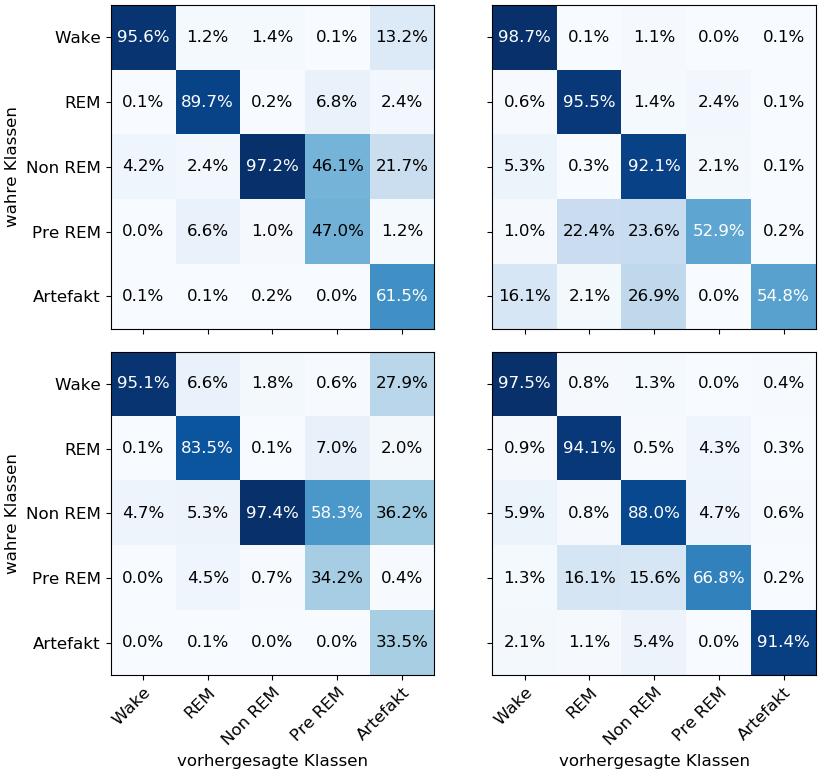
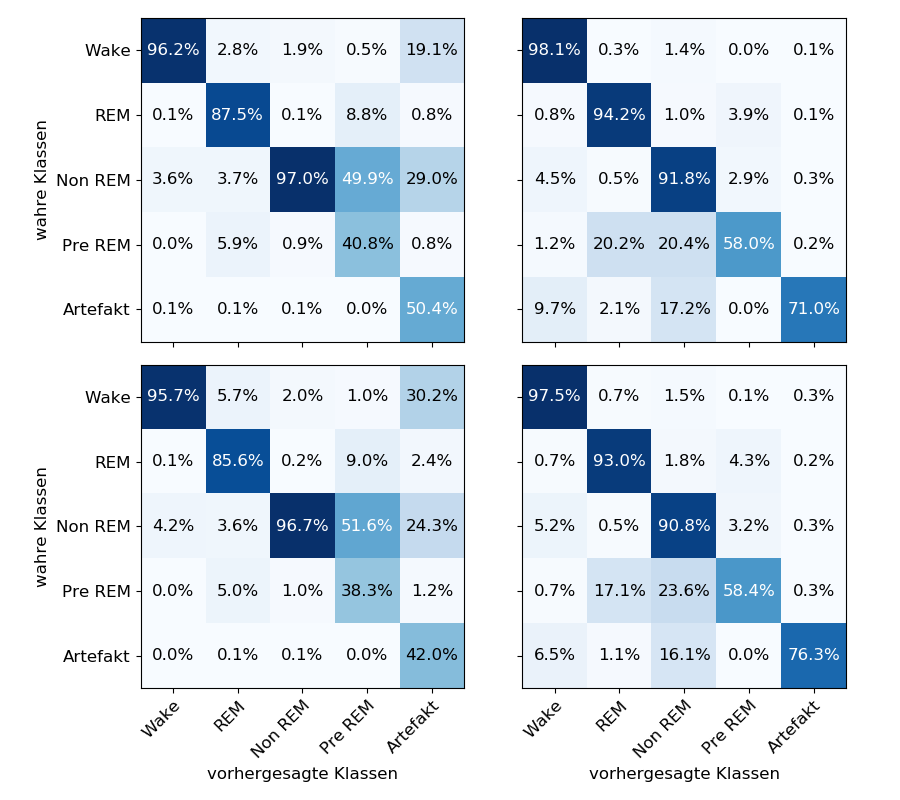
add scripts for plotting of f1 score courses and for plotting of a simple window warping example add plots made with these scripts

Changed region(s): [[0.0, 0.0, 0.5501, 0.9922], [0.5807, 0.0, 1.0, 0.9922], [0.0, 0.124, 0.2751, 0.3101]]

diff --git a/scripts/plots/master/plot_f1_score_course.py b/scripts/plots/master/plot_f1_score_course.py
@@ -1,0 +1,261 @@
+from os.path import join, dirname
+
+import matplotlib.pyplot as plt
+import numpy as np
+
+f1_scores_001_train = {
+    'Wake': [0.45828943664803573, 0.47566984186570316, 0.5875755194928342, 0.7704458983749956, 0.8776419969393865,
+             0.9099441500276573, 0.922647481237028, 0.9350972410673902, 0.9465349405012661, 0.9534392971969388,
+             0.9572805948925108, 0.9627780979304024, 0.9671772627452403, 0.9684523701540192, 0.9716055990492866,
+             0.9731932563363663, 0.9741702106414556, 0.9750272331154685, 0.9763683737482866, 0.9776438172104023,
+             0.9779034872265177, 0.9782498184458969, 0.9790514587703288, 0.9804106722113014, 0.9802716115527991,
+             0.9813018761692003, 0.9814845932014806],
+    'REM': [0.21260117157805308, 0.35374807384355084, 0.5103512283642359, 0.7049339859692951, 0.7804678062886637,
+            0.8131475844498263, 0.8394483436487339, 0.8634476562257954, 0.8858121874421188, 0.898998362634237,
+            0.9160738813815542, 0.9319316568182859, 0.9472641818444968, 0.9574975686846584, 0.9649491736446937,
+            0.9709271015844844, 0.9756795855455999, 0.9788204281364097, 0.9807636963996305, 0.9833653715167936,
+            0.9848436671966083, 0.9857726653549266, 0.987027730685396, 0.9874375662176479, 0.9885864793678666,
+            0.9896364035519353, 0.99061473486626],
+    'NonREM': [0.3401838631048861, 0.475220709175341, 0.5374332841107604, 0.6340473156622304, 0.7303350082917914,
+               0.7759327787793486, 0.8091571662779938, 0.8371759030861152, 0.8542371387331004, 0.8664349470288908,
+               0.8812739412416539, 0.8957909719398129, 0.9114945790997332, 0.9205330841504897, 0.930866013351348,
+               0.9387957691035018, 0.9419240026921892, 0.945397904922747, 0.9504453644461172, 0.9537926314588798,
+               0.9551680485384851, 0.9571398417488634, 0.9595577339564574, 0.962153041039352, 0.9628565892798121,
+               0.9644391272147212, 0.965803250485636],
+    'PreREM': [0.19860624317691192, 0.1884477836851209, 0.161593542507486, 0.32138035252003516, 0.5003342912439154,
+               0.597080323173599, 0.6383882339403956, 0.6777091347889314, 0.7154756685664183, 0.7457149471099168,
+               0.7927714646464645, 0.8286919003726221, 0.8679852222991217, 0.8928338793882888, 0.9127351158091093,
+               0.9285575691722613, 0.9372181620276784, 0.943335761107065, 0.9516857973155537, 0.9570796675253974,
+               0.9598336604418881, 0.9629075069761112, 0.9667892371446916, 0.9683581857266528, 0.9716692115423892,
+               0.9725854152074092, 0.9749576790613507],
+    'Artifact': [0.5229366001967272, 0.6338351044007543, 0.6570850735373311, 0.6454606333110112, 0.6661511061117361,
+                 0.7106723973046948, 0.8216750921171551, 0.925570332136013, 0.9651614399165265, 0.977290979284187,
+                 0.9842082303329941, 0.9882866708719491, 0.990505776138239, 0.9923858361012373, 0.9937809736663104,
+                 0.9947903504850028, 0.9952559640697606, 0.9958682908334388, 0.9962760940796701, 0.9965954632115481,
+                 0.9968580072178286, 0.9967910694490364, 0.9972373540856032, 0.9972666167329747, 0.9978593391196046,
+                 0.9977720484506494, 0.9978014280989163],
+    'avg': [0.34652346294092284, 0.425384302594094, 0.49080772960252955, 0.6152536371675134, 0.7109860417750986,
+            0.7613554467470252, 0.8062632634442612, 0.8478000534608491, 0.8734442750318859, 0.888375706650834,
+            0.9063216224990356, 0.9214958595866143, 0.9368854044253663, 0.9463405476957387, 0.9547873751041497,
+            0.9612528093363233, 0.9648495849953367, 0.9676899236230257, 0.9711078651978516, 0.9736953901846043,
+            0.9749213741242656, 0.9761721803949669, 0.9779327029284953, 0.9791252163855857, 0.9802486461724943,
+            0.981146974118783, 0.9821323371427286]
+}
+
+f1_scores_001b_train = {
+    'Wake': [0.8216369980220904, 0.9148960769839647, 0.9262593869783211, 0.9307407224833854, 0.93437170366048,
+             0.9361000399908336, 0.9392671051507645, 0.9400201522212426, 0.9418583182098613, 0.9437846254933641,
+             0.946338341153827, 0.947366047470224, 0.9506416673430553, 0.9536365852117317, 0.9544220667476659,
+             0.9560755262444666, 0.9574754370755671, 0.9591688245954166, 0.9595061192761719, 0.9607198571137889,
+             0.9619010158824886, 0.9623254215210941, 0.9632624998869199, 0.9635522731181044, 0.9637292094850923,
+             0.963798692479038, 0.9644366802740792, 0.9649516840398845, 0.9653783125548886, 0.965020268587087,
+             0.9660741378139082, 0.96624938857588, 0.966527802934251, 0.9665532905493233],
+    'REM': [0.7614879649890591, 0.8373268950437317, 0.8495166577088742, 0.8565099642697295, 0.8618982536066817,
+            0.865077676101298, 0.8698590432023432, 0.8729105417891642, 0.8782313756646092, 0.8798407167745147,
+            0.8843661432401378, 0.8877133079673254, 0.8935266470899431, 0.8974062650676178, 0.9003429061294471,
+            0.9037400836909708, 0.9074412662469304, 0.9088489483747609, 0.9136049639320211, 0.9160532893077434,
+            0.9204903945308025, 0.9220649242499485, 0.9274855497949864, 0.9310610510576945, 0.9335377153446659,
+            0.9375915750915751, 0.9407341310697751, 0.944534277084541, 0.9468975293023822, 0.9514857443194369,
+            0.952917498894598, 0.9550017517936845, 0.9570201009232268, 0.9595492786173817],
+    'NonREM': [0.7410094927626485, 0.8106415762384027, 0.8246266402289318, 0.8329492641898353, 0.8406863964188013,
+               0.8453382895503342, 0.8493045680767863, 0.8539930806625655, 0.8544867556108755, 0.8582889188076507,
+               0.8609136153572697, 0.8629103075708903, 0.8675721373111749, 0.8700001112631709, 0.8742503643868843,
+               0.8751135103816733, 0.8809324071899154, 0.8834159853460215, 0.8883650351921429, 0.8933036689998375,
+               0.896576115330852, 0.8993790358447759, 0.9047234899556027, 0.9094462393529292, 0.9138251845148885,
+               0.9165407448909715, 0.9195960237486319, 0.9229478077437794, 0.9254691201617989, 0.9279472757229703,
+               0.9305727633358719, 0.9340084772281172, 0.9347551324823792, 0.9361311893736152],
+    'PreREM': [0.5753381066030231, 0.6531545137840069, 0.6639423854992718, 0.6747356480168537, 0.6849267591563796,
+               0.6943487989537461, 0.7008447600391772, 0.71123301129851, 0.7161349171372642, 0.723404255319149,
+               0.7289075286415712, 0.7317744996021301, 0.741140639483361, 0.7437676794399561, 0.7549063426922921,
+               0.7580707265173776, 0.7715358822285547, 0.7753496767947722, 0.7895598710053345, 0.7998757863525263,
+               0.810965801804322, 0.8188597928521067, 0.8327870151219561, 0.8454052345054489, 0.8554315380902187,
+               0.8669575986318335, 0.8757138651751545, 0.8838630687105149, 0.8923666810125592, 0.9006305293513857,
+               0.9053856214253645, 0.9136587506705027, 0.9164822091991458, 0.9226994820670588],
+    'Artifact': [0.6938652766639936, 0.7614956514378822, 0.802243083310097, 0.832086492615126, 0.853656827713219,
+                 0.8807399282601607, 0.8989053065632517, 0.9172664322792392, 0.9311935963318795, 0.9459323086477255,
+                 0.9580706087461863, 0.9676724973819959, 0.9757160285830477, 0.98237283536674, 0.9851055788667836,
+                 0.987261516984644, 0.9880737681075107, 0.9903669102397612, 0.9909089146911163, 0.9917719004099512,
+                 0.9928428729367497, 0.9934152467585364, 0.9935917943945166, 0.9937937588487423, 0.9944614190794897,
+                 0.9944220788669544, 0.994568590937306, 0.9947501722448108, 0.9949642451704297, 0.995624290523824,
+                 0.995487583576745, 0.9954585152838427, 0.9960005436154309, 0.9960103672209442],
+    'avg': [0.718667567808163, 0.7955029426975976, 0.8133176307450991, 0.825404418314986, 0.8351079881111122,
+            0.8443209465712744, 0.8516361566064645, 0.8590846436501444, 0.8643809925908978, 0.8702501650084807,
+            0.8757192474277984, 0.8794873319985133, 0.8857194239621166, 0.8894366952698434, 0.8938054517646146,
+            0.8960522727638264, 0.9010917521696957, 0.9034300690701464, 0.9083889808193574, 0.9123449004367694,
+            0.916555240097043, 0.9192088842452923, 0.9243700698307963, 0.928651711376584, 0.932197013302871,
+            0.9358621379920745, 0.9390098582409893, 0.942209401964706, 0.9450151776404117, 0.9481416217009407,
+            0.9500875210092975, 0.9528753767104053, 0.9541571578308868, 0.9561887215656647]
+}
+
+f1_scores_003c_train = {
+    'Wake': [0.4466379651005595, 0.5967105208480507, 0.6905195116112043, 0.7632186210321186, 0.8525029797377831,
+             0.901673584147811, 0.9227019404484612, 0.9377986972508561, 0.9468803155875647, 0.954563166622867,
+             0.9583437198319427, 0.9611485337143636, 0.965801999156053, 0.967048925153274, 0.9687681580476466,
+             0.9709119461174325, 0.9717056516054046, 0.9723846181778568, 0.9732127855705962, 0.974165451911593,
+             0.9744053351747197, 0.97508356950803, 0.9752216247638426, 0.9761454888993859, 0.9760474419576165,
+             0.9763797410856234, 0.9767382714928017, 0.9773362225220437, 0.9774966372196168, 0.977710334299552,
+             0.9785559816090283, 0.9788511951005646, 0.9787566555816024, 0.9783548996801396, 0.9794128738828384,
+             0.9792664636640458, 0.9795714363606624, 0.9793149819863615, 0.9799288398533174, 0.979722392603194,
+             0.9800211642134043, 0.980373984626288, 0.9801077760511799],
+    'REM': [0.35829084060139516, 0.5479005299633103, 0.6614117411371289, 0.7207113538845913, 0.770582596655661,
+            0.8095270500170126, 0.8406305533427293, 0.8636709123154525, 0.8778625954198472, 0.892504855556745,
+            0.9035875126374805, 0.9088628890418291, 0.9174012855831037, 0.9259944637313228, 0.9334434579117626,
+            0.9423097489801843, 0.9471379752242631, 0.9507661812914538, 0.9543784772502096, 0.9590064758657951,
+            0.961684133672026, 0.9648317578041886, 0.9666780652760363, 0.969215929028779, 0.9718473338036824,
+            0.9722312820940693, 0.9745605183493548, 0.9754018158511517, 0.9770775812372947, 0.9776996194836499,
+            0.978449452516, 0.9797592334283461, 0.9797842746367309, 0.9806918196083784, 0.9818920496320047,
+            0.9822859265210833, 0.9826222653172536, 0.9834172947994394, 0.9838167106100555, 0.9841808337435158,
+            0.9844496792225597, 0.984512100868353, 0.9855340291137131],
+    'NonREM': [0.3607511530858774, 0.5504250429505342, 0.6417193020019271, 0.6940028995598697, 0.7374172576528648,
+               0.7770953870620115, 0.816505983500538, 0.8474931822949444, 0.8590294959290193, 0.8674369142831824,
+               0.8756081306231257, 0.8802045126153162, 0.8874192110541564, 0.8932093137721001, 0.8997403063599703,
+               0.904781217610743, 0.9109682952564195, 0.9150364566514269, 0.9193118240521125, 0.9232360311624551,
+               0.9274815664799645, 0.9299842335035204, 0.9315848188875987, 0.9340780087334255, 0.9364647656842452,
+               0.9386191445331875, 0.9400613294118988, 0.9417801190394746, 0.9433850432562434, 0.9458233101136662,
+               0.9474758649004659, 0.9477573642615211, 0.9486645716534445, 0.9486910277771438, 0.950510524214249,
+               0.9517537858055101, 0.9518582960152886, 0.9524135570010271, 0.9537115712517892, 0.954701288625979,
+               0.9555437568865216, 0.95588680257817, 0.9555457922275032],
+    'PreREM': [0.18374680909068378, 0.2051593398423948, 0.28768268886145515, 0.45042921678046977, 0.5319476438678995,
+               0.6027951866354502, 0.655866640790186, 0.6855784632873456, 0.7096435843119511, 0.7294245429953273,
+               0.7528146870879399, 0.7634907634907634, 0.7806610873622734, 0.8001155746851586, 0.8206985974601854,
+               0.8373058830476114, 0.8518580367579885, 0.8636913826090352, 0.874564663307197, 0.885958001420054,
+               0.8948064578875705, 0.9018009625834498, 0.9068227710469089, 0.9110515792130143, 0.9183075639707451,
+               0.9218330408818141, 0.92624533152253, 0.9293027224075079, 0.9327364688099529, 0.9367572444435821,
+               0.9384448406853245, 0.9406133423768228, 0.9428640659074388, 0.9444008790527916, 0.9453199918633823,
+               0.9483625374131869, 0.9490819243253719, 0.9508971824981591, 0.9521982228165549, 0.9546939685679106,
+               0.9550856733274572, 0.9555110375596396, 0.9564939405388125],
+    'Artifact': [0.5071941697032795, 0.5788057559692271, 0.6224417939351261, 0.6494646182495345, 0.6565630376882645,
+                 0.7059877929798288, 0.8085879905475551, 0.895822906641001, 0.9350009111573617, 0.9585436332113273,
+                 0.9711257204089316, 0.975370983032484, 0.982999622213827, 0.9860012408872344, 0.9885615049528005,
+                 0.9903067115591737, 0.9908207029051602, 0.9917769385357708, 0.9927270961790553, 0.992681459049172,
+                 0.9936681816416114, 0.9942772752446003, 0.9941429584373452, 0.9944239362735574, 0.9950932286555446,
+                 0.9953055293671698, 0.9953165688522678, 0.9950836555838403, 0.9955285975348964, 0.9961421477644864,
+                 0.9957919084132677, 0.996305011571148, 0.9962773970938426, 0.9959955679101141, 0.9965102602237711,
+                 0.996538648517258, 0.9967135967641568, 0.9967137245751176, 0.9969172720288628, 0.9968301505192331,
+                 0.9971409677921269, 0.9969278033794163, 0.9972188186786473],
+    'avg': [0.37132418751635904, 0.4958002379147034, 0.5807550075093684, 0.6555653419013167, 0.7098027031204946,
+            0.7594158001684228, 0.808858621725894, 0.8460728323579201, 0.8656833804811488, 0.8804946225338897,
+            0.8922959541178841, 0.8978155363789513, 0.9068566410738826, 0.914473903645818, 0.9222424049464731,
+            0.929123101463029, 0.9344981323498471, 0.9387311154531087, 0.9428389692718341, 0.9470094838818138,
+            0.9504091349711784, 0.9531955597287578, 0.9548900476823464, 0.9569829884296324, 0.9595520668143669,
+            0.9608737475923729, 0.9625844039257707, 0.9637809070808036, 0.9652448656116007, 0.9668265312209874,
+            0.9677436096248172, 0.9686572293476805, 0.9692693929746119, 0.9696268388057134, 0.970729139963249,
+            0.9716414723842168, 0.9719695037565466, 0.9725513481720209, 0.973314523312116, 0.9740257268119665,
+            0.9744482482884139, 0.9746423458023734, 0.9749800713219713]
+}
+
+f1_scores_001_valid = {
+    'Wake': [0.657405684754522, 0.4611178937310898, 0.843902349955265, 0.855320411392405, 0.885871037659171,
+             0.9139117987867221, 0.932055717572047, 0.9463877720904695, 0.9570114044125484, 0.9595433464145559,
+             0.9673044150459424, 0.9634778302470773, 0.9712198478939845, 0.9694530626717489, 0.9703757610181224,
+             0.9729483335963112, 0.9736898243618004, 0.9754512380346861, 0.9746917814242247, 0.9747490755414686,
+             0.9774797034945287, 0.9771752369856486, 0.9760045134787286, 0.9766318905963626, 0.9769876682008221,
+             0.9782155845072908, 0.978478283917023],
+    'REM': [0.12518034456420268, 0.11241206629307261, 0.2589039585400816, 0.429526563064691, 0.7098027495517035,
+            0.82624801552302, 0.815959741193386, 0.8383912248628885, 0.8554066130473637, 0.8804795803671787,
+            0.8694686169227921, 0.8914441629312025, 0.8816533437317216, 0.8909512761020881, 0.8801363378148078,
+            0.8948485433146827, 0.8946564885496183, 0.895306859205776, 0.9020965570301981, 0.9019078820581999,
+            0.9002114977888866, 0.9014194050165274, 0.8947568389057751, 0.9020897832817337, 0.9026852028185107,
+            0.9030291484092209, 0.9097933165926211],
+    'NonREM': [0.19235930929587544, 0.05094734791291218, 0.5261806039702052, 0.5527151935297515, 0.7126930223617607,
+               0.7644436245118839, 0.8765320885540361, 0.8957227937195452, 0.9114534991646556, 0.9150781723747001,
+               0.9210171195724076, 0.9341014545644126, 0.9412280475539623, 0.9429993330254989, 0.9435981463939169,
+               0.9463633087970351, 0.9507063572149343, 0.9456240555285198, 0.950480413895048, 0.9514810381274992,
+               0.9523567655424625, 0.9540212443095599, 0.9520783017668742, 0.9555623038769105, 0.9508740589511293,
+               0.9542678310029782, 0.955841139192567],
+    'PreREM': [0.025122883670125617, 0.0, 0.005687203791469194, 0.05966438781852082, 0.24408602150537637,
+               0.23279847701930925, 0.29683698296836986, 0.36845637583892615, 0.350185873605948, 0.35790219702338766,
+               0.3778217821782178, 0.4421052631578948, 0.45901639344262296, 0.4576107899807322, 0.4524975514201763,
+               0.4938271604938272, 0.47925764192139736, 0.45363908275174475, 0.49278707443739184, 0.492874109263658,
+               0.4843835616438356, 0.4977011494252873, 0.49826989619377154, 0.5121495327102803, 0.47285464098073554,
+               0.483423749246534, 0.4955116696588868],
+    'Artifact': [0.12214863870493008, 0.30966531122927743, 0.31692207368764264, 0.3072642967542504, 0.1799193843898864,
+                 0.2667024416420714, 0.278149386845039, 0.39522437216961714, 0.4789156626506024, 0.4533083059596434,
+                 0.587088915956151, 0.5015259409969481, 0.6417704011065007, 0.5848024316109421, 0.6144964720974985,
+                 0.674123788217748, 0.6778115501519757, 0.6790490341753345, 0.7044728434504792, 0.6750369276218611,
+                 0.7093596059113301, 0.7350993377483444, 0.718241042345277, 0.7056936647955093, 0.7402489626556018,
+                 0.7391304347826086, 0.7164906580016247],
+    'avg': [0.22444337219793115, 0.18682852383327042, 0.39031923798893275, 0.44089817051192376, 0.5464744430935796,
+            0.6008208714966013, 0.6399067834265756, 0.6888365077362893, 0.7105946105762235, 0.7132623204278932,
+            0.7445401699351022, 0.746530930379507, 0.7789776067457584, 0.7691633786782021, 0.7722208537489044,
+            0.7964222268839208, 0.7952243724399453, 0.7898140539392123, 0.8049057340474682, 0.7992098065225374,
+            0.8047582268762087, 0.8130832746970735, 0.8078701185380854, 0.8104254350521594, 0.80873010672136,
+            0.8116133495897264, 0.8112230134725446]
+}
+
+f1_scores_003c_valid = {
+    'Wake': [0.7659384013526506, 0.7626023018819246, 0.8090274078921338, 0.7815923818439799, 0.8991182529872271,
+             0.9366738182573188, 0.9471757697552573, 0.9474741069541323, 0.9574051668920361, 0.9609795049241416,
+             0.9659506479673353, 0.962255457896229, 0.9678618003822999, 0.969906631131193, 0.9712296327713569,
+             0.9701819737287682, 0.9736543104672631, 0.9714255307827383, 0.9735028770334587, 0.9738889480976234,
+             0.9752792334974326, 0.9749991134437392, 0.9721538706650852, 0.9749787955894826, 0.974475245770968,
+             0.9748384240814519, 0.9745653060139315, 0.976328210952195, 0.976317095653407, 0.976317935264296,
+             0.9760839976667314, 0.9754706622035669, 0.9759406239457377, 0.9768716624818757, 0.9759673411430599,
+             0.9763893805309733, 0.9777336899721892, 0.9776074594709144, 0.9780765546844513, 0.9776889894632628,
+             0.9770368929979317, 0.9773206844578421, 0.9773502837845005],
+    'REM': [0.5709274281955712, 0.5350080171031535, 0.6886145404663924, 0.5441772493920561, 0.8166269755358303,
+            0.8460570469798658, 0.8608326908249808, 0.8776026464292664, 0.8877972096679112, 0.8811959087332809,
+            0.8930491933877714, 0.8827474090631985, 0.8912209889001009, 0.9019607843137255, 0.8975687524910322,
+            0.8962703962703963, 0.8921493902439024, 0.8981321009050645, 0.8977403293757182, 0.9015664281570296,
+            0.9015325670498084, 0.8960490985807441, 0.8972762645914396, 0.8968177434908391, 0.8962446767324816,
+            0.9023111283744417, 0.9023969319271333, 0.9049002517915941, 0.9080325960419091, 0.9011201235998455,
+            0.8994197292069632, 0.8960092095165004, 0.9027993779160187, 0.9053658536585366, 0.9050867277333852,
+            0.9003875968992248, 0.9058209243859989, 0.9021802045147599, 0.905112316034082, 0.9050583657587549,
+            0.9063962558502339, 0.9047619047619047, 0.9067747539085119],
+    'NonREM': [0.5393776676304558, 0.4804003336113428, 0.6571839753673148, 0.5529007771552502, 0.8249040809208232,
+               0.9071181718327216, 0.9195858003599467, 0.9159701769747142, 0.932116845079184, 0.9343255620316403,
+               0.9416895410584644, 0.9387776145180832, 0.94497772119669, 0.9386167371178133, 0.9447569150165652,
+               0.9432627748449592, 0.9437362412327855, 0.9467919023366519, 0.9439656274775581, 0.9436803688052248,
+               0.9469371030526532, 0.9511996746644978, 0.9488165906601105, 0.9484293461577816, 0.9494099956673548,
+               0.9506512006512007, 0.9461212399775292, 0.9501812742438456, 0.9496457682638836, 0.9504518225200528,
+               0.950821342162231, 0.9508572009971002, 0.9522365428354813, 0.9528108121814539, 0.9509972663764301,
+               0.9532018455610201, 0.952183267940767, 0.952376114398923, 0.9535771145535872, 0.9524123585815027,
+               0.9533773489080752, 0.9530530682450549, 0.9532743452577137],
+    'PreREM': [0.1061139896373057, 0.005859374999999999, 0.27722772277227725, 0.2956785443517817, 0.4224872231686541,
+               0.5048247841543931, 0.4513163393230255, 0.45925258892390813, 0.4702627939142462, 0.4717861688587188,
+               0.4915640674874601, 0.49109653233364575, 0.4888076747373229, 0.4519874944171506, 0.49025341130604294,
+               0.47314814814814815, 0.4515539305301645, 0.4828953891918691, 0.45471349353049906, 0.4505494505494506,
+               0.4640826873385013, 0.4848484848484848, 0.5010706638115632, 0.4732189287571503, 0.4782157676348548,
+               0.4928305894848646, 0.45012285012285014, 0.4696189495365603, 0.4726134585289515, 0.4711437565582371,
+               0.48311688311688317, 0.47132429614181437, 0.48202959830866804, 0.48583877995642705, 0.46892950391644905,
+               0.4829106945975744, 0.48995111352525794, 0.4854368932038835, 0.48484848484848486, 0.4769647696476965,
+               0.49418282548476455, 0.4835164835164835, 0.4856661045531198],
+    'Artifact': [0.18129079042784624, 0.29403029403029407, 0.3095163806552262, 0.3069306930693069, 0.4288272157564906,
+                 0.40743801652892564, 0.36986301369863017, 0.39365595770638473, 0.44076888690210103,
+                 0.46783625730994155, 0.539031339031339, 0.488, 0.5180467091295117, 0.5583284968078933,
+                 0.5726141078838174, 0.5317417254476398, 0.64, 0.588380716934487, 0.6356902356902357,
+                 0.6030341340075853, 0.6695156695156695, 0.6444906444906445, 0.6214099216710184, 0.6344086021505377,
+                 0.6318607764390897, 0.6420260095824777, 0.6445824706694272, 0.6734397677793904, 0.6553672316384181,
+                 0.670995670995671, 0.6874536005939124, 0.6613255644573925, 0.6715867158671587, 0.6897590361445783,
+                 0.6522366522366522, 0.6764705882352942, 0.6977099236641222, 0.7174959871589085, 0.6944655041698256,
+                 0.7028265851795263, 0.6723891273247495, 0.6878306878306878, 0.693939393939394],
+    'avg': [0.4327296554487659, 0.415580064325343, 0.5483140054306689, 0.4962559291624749, 0.678392749673805,
+            0.7204223675506449, 0.7097547227923682, 0.7187910953976812, 0.7376701804910957, 0.7432246803715447,
+            0.7662569577864741, 0.7525754027622312, 0.7621829788691851, 0.7641600287575552, 0.7752845638937629,
+            0.7629210036879822, 0.7802187744948232, 0.777525128030162, 0.7811225126214939, 0.7745438659233826,
+            0.791469452090813, 0.7903174032056222, 0.7881454622798435, 0.7855706832291582, 0.7860412924489497,
+            0.7925314704348873, 0.7835577597421743, 0.794893690860717, 0.7923952300253139, 0.7940058617876204,
+            0.7993791105493442, 0.7909973866632749, 0.7969185717746129, 0.8021292288845743, 0.7906434982811953,
+            0.7978720211648174, 0.8046797838976671, 0.8070193317494778, 0.8032159948580861, 0.8029902137261485,
+            0.8006764901131509, 0.8012965657623946, 0.8034009762886478]
+}
+
+plt.rcParams.update({'font.size': 12})
+fig, (ax1, ax2) = plt.subplots(1, 2, sharey='all', figsize=(8, 4))
+
+for ax, f1_scores in zip([ax1, ax2], [f1_scores_001_valid, f1_scores_003c_valid]):
+    t = np.arange(1, len(f1_scores['Wake']) + 1)
+    print(max(t))
+    for stage in f1_scores:
+        if stage == 'avg': continue
+        ax.plot(t, f1_scores[stage], label=stage)
+    ax.set_xlabel('Epoche')
+    ax.set_ylim((0.0, 1))
+    ax.grid()
+
+ax1.set_ylabel('F1 Score')
+ax2.legend()
+plt.tight_layout()
+plt.savefig(
+    join(dirname(__file__), '../../..', 'results', 'plots', 'master', 'f1_scores_ww_valid_all_stages.png'))
+plt.show()

diff --git a/scripts/plots/master/plot_nice_confusion_matrix.py b/scripts/plots/master/plot_nice_confusion_matrix.py
@@ -4,29 +4,29 @@ import numpy as np
 import matplotlib.pyplot as plt
 
 # values in confusion matrices in percent
-cm_001 = np.array([[98.73, 0.13, 1.07, 0.01, 0.06, ],
-                   [0.57, 95.51, 1.41, 2.40, 0.10, ],
-                   [5.32, 0.33, 92.10, 2.12, 0.12, ],
-                   [1.00, 22.39, 23.55, 52.90, 0.17, ],
-                   [16.13, 2.15, 26.88, 0.00, 54.84, ]])
+cm_001 = np.array([[98.09, 0.32, 1.43, 0.02, 0.14, ],
+                   [0.78, 94.20, 1.04, 3.92, 0.05, ],
+                   [4.49, 0.52, 91.83, 2.91, 0.26, ],
+                   [1.16, 20.23, 20.40, 58.04, 0.17, ],
+                   [9.68, 2.15, 17.20, 0.00, 70.97, ]])
 
-cmT_001 = np.array([[95.63, 1.18, 1.39, 0.15, 13.25, ],
-                    [0.06, 89.70, 0.19, 6.77, 2.41, ],
-                    [4.20, 2.40, 97.22, 46.10, 21.69, ],
-                    [0.03, 6.62, 1.02, 46.98, 1.20, ],
-                    [0.08, 0.10, 0.18, 0.00, 61.45, ]])
+cmT_001 = np.array([[96.24, 2.81, 1.86, 0.47, 19.08, ],
+                    [0.08, 87.49, 0.14, 8.75, 0.76, ],
+                    [3.59, 3.69, 97.00, 49.94, 29.01, ],
+                    [0.04, 5.92, 0.88, 40.84, 0.76, ],
+                    [0.05, 0.10, 0.11, 0.00, 50.38, ]])
 
-cm_001b = np.array([[97.45, 0.79, 1.33, 0.04, 0.39, ],
-                    [0.89, 94.10, 0.47, 4.28, 0.26, ],
-                    [5.93, 0.78, 88.01, 4.66, 0.62, ],
-                    [1.33, 16.09, 15.59, 66.83, 0.17, ],
-                    [2.15, 1.08, 5.38, 0.00, 91.40, ]])
+cm_001b = np.array([[97.51, 0.66, 1.50, 0.05, 0.28, ],
+                    [0.68, 93.00, 1.78, 4.33, 0.21, ],
+                    [5.23, 0.52, 90.75, 3.22, 0.28, ],
+                    [0.66, 17.08, 23.55, 58.37, 0.33, ],
+                    [6.45, 1.08, 16.13, 0.00, 76.34, ]])
 
-cmT_001b = np.array([[95.14, 6.58, 1.81, 0.59, 27.95, ],
-                     [0.09, 83.54, 0.07, 6.96, 1.97, ],
-                     [4.71, 5.33, 97.38, 58.27, 36.22, ],
-                     [0.04, 4.50, 0.71, 34.18, 0.39, ],
-                     [0.01, 0.05, 0.04, 0.00, 33.46, ]])
+cmT_001b = np.array([[95.69, 5.72, 1.96, 0.98, 30.18, ],
+                     [0.07, 85.62, 0.25, 9.04, 2.37, ],
+                     [4.19, 3.65, 96.66, 51.63, 24.26, ],
+                     [0.02, 4.95, 1.03, 38.34, 1.18, ],
+                     [0.03, 0.05, 0.11, 0.00, 42.01, ]])
 
 filename = 'cm_all'
 

diff --git a/scripts/plots/master/plot_window_warping_samples.py b/scripts/plots/master/plot_window_warping_samples.py
@@ -1,0 +1,56 @@
+import sys
+from os.path import dirname, join, realpath
+
+import matplotlib.pyplot as plt
+import numpy as np
+import torch
+from scipy.signal import resample
+
+from base.config_loader import ConfigLoader
+from base.data.dataloader import TuebingenDataloader
+
+
+def alternate_signal_ww(signals, sample_left, sample_right):
+    """ stretching/compressing of the signal + resampling"""
+    # stretch/compress signal to the new window size using the sample to the left and right (for stretching)
+    orig_size = signals.shape[0]
+    new_size = int(ww_factor * orig_size)
+    total_win = np.r_[sample_left, signals, sample_right]
+    win_start = (total_win.shape[0] - new_size) // 2
+    orig_win = total_win[win_start:win_start + new_size]
+
+    # resample new signal to the old window size
+    win = resample(orig_win, orig_size, axis=0)
+    return win.astype('float32')
+
+
+config = ConfigLoader('exp001', create_dirs=False)
+config.DATA_FILE = 'D:/Python/mice_tuebingen/cache/dataset/data_tuebingen.h5'
+
+sample = 10
+ww_factor = 0.7
+mapLoader = TuebingenDataloader(config, 'train', balanced=False, augment_data=False)
+signal = mapLoader[sample][0].flatten()
+
+mapLoader_augmented = TuebingenDataloader(config, 'train', balanced=False)
+signal_augmented = alternate_signal_ww(signal, mapLoader[sample - 1][0].flatten()[:640],
+                                       mapLoader[sample + 1][0].flatten()[-640:])
+
+plt.rcParams.update({'font.size': 12})
+fig, (ax1, ax2) = plt.subplots(2, sharex='all', figsize=(8, 4))
+
+ax1.plot(np.arange(signal.shape[0]), signal, label='originales Signal', c='k')
+ax1.axvspan((1 - ww_factor) / 2 * 1920, (1 - (1 - ww_factor) / 2) * 1920, alpha=0.3, color='darkgreen',
+            label='neues Fenster')
+ax1.legend()
+ax1.set_ylabel('Amplitude')
+
+ax2.plot(signal_augmented, label='transf. Signal', c='darkgreen')
+ax2.legend()
+ax2.set_ylabel('Amplitude')
+ax2.set_ylim(ax1.get_ylim())
+
+plt.xlabel('Fenstergröße in Datenpunkten')
+plt.tight_layout()
+plt.savefig(join(dirname(__file__), '../../..', 'results', 'plots', 'master', 'ww_example.png'))
+plt.show()
